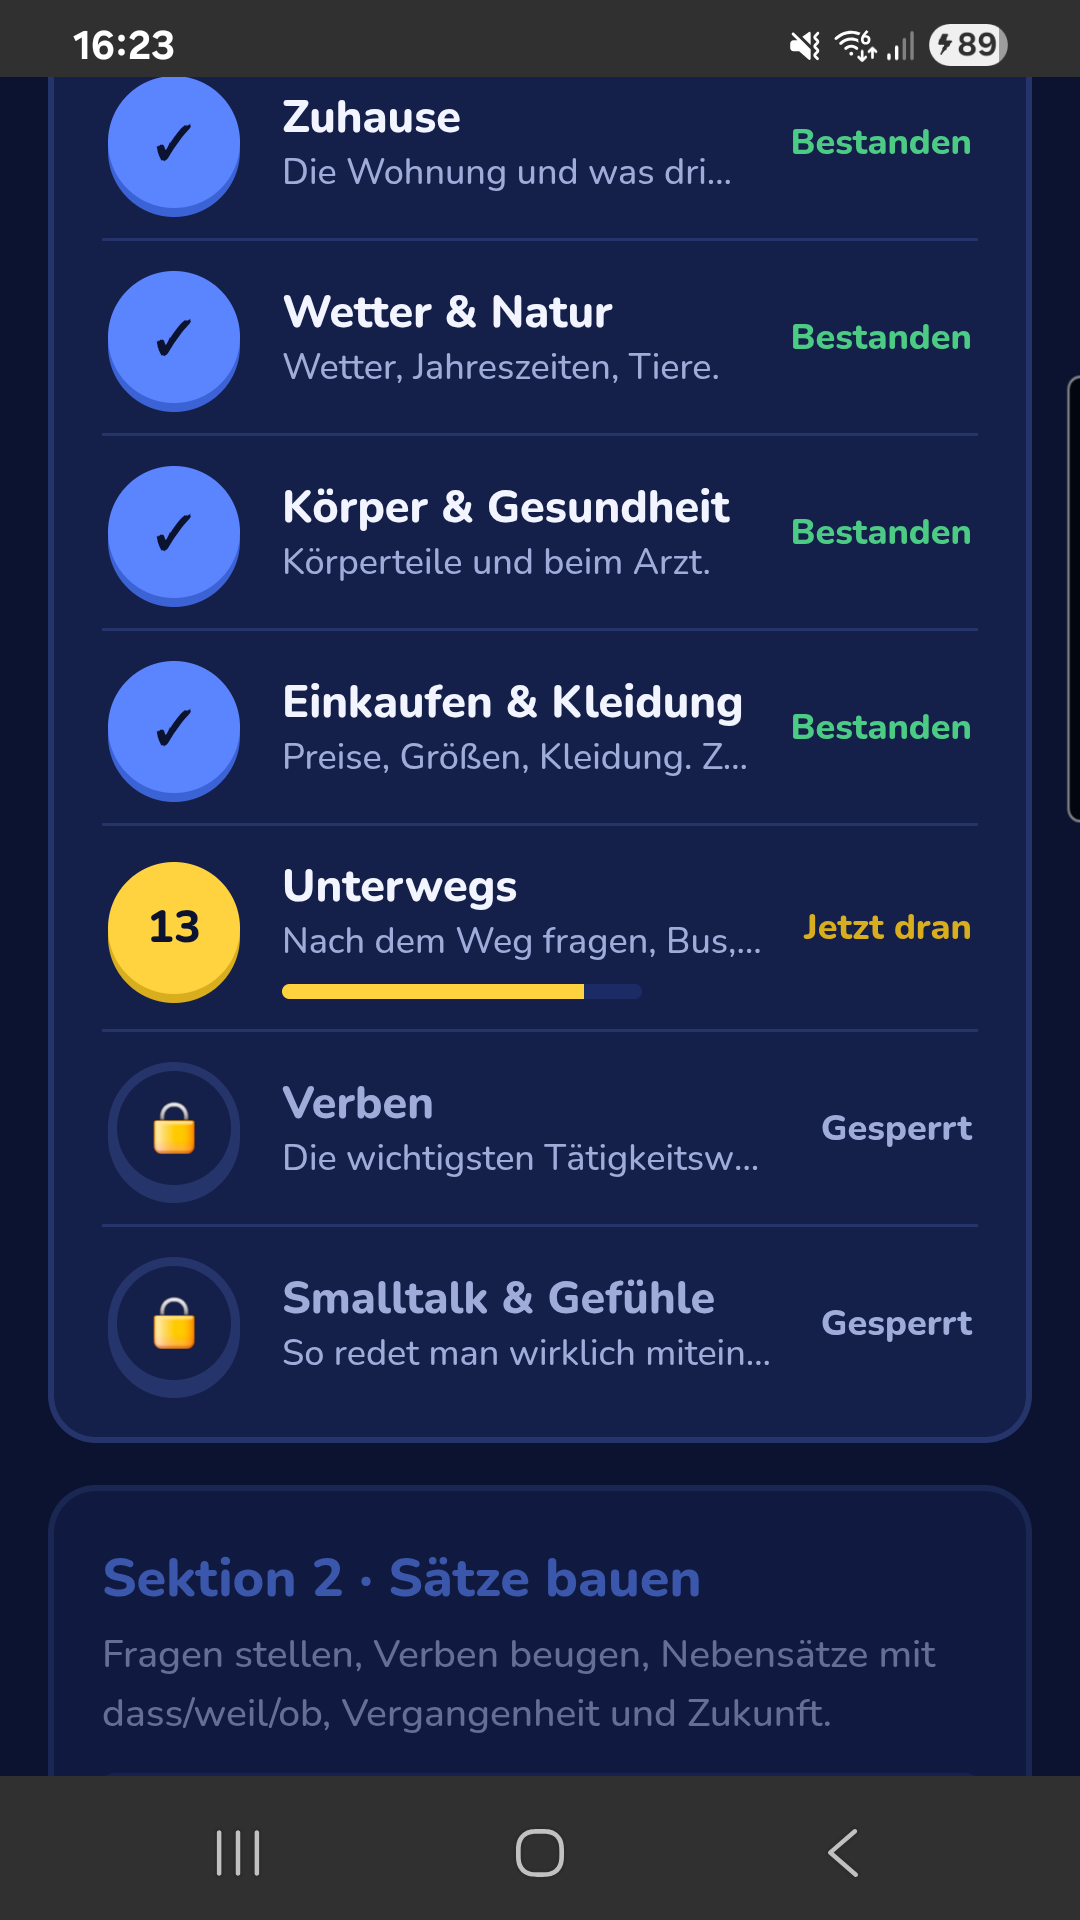
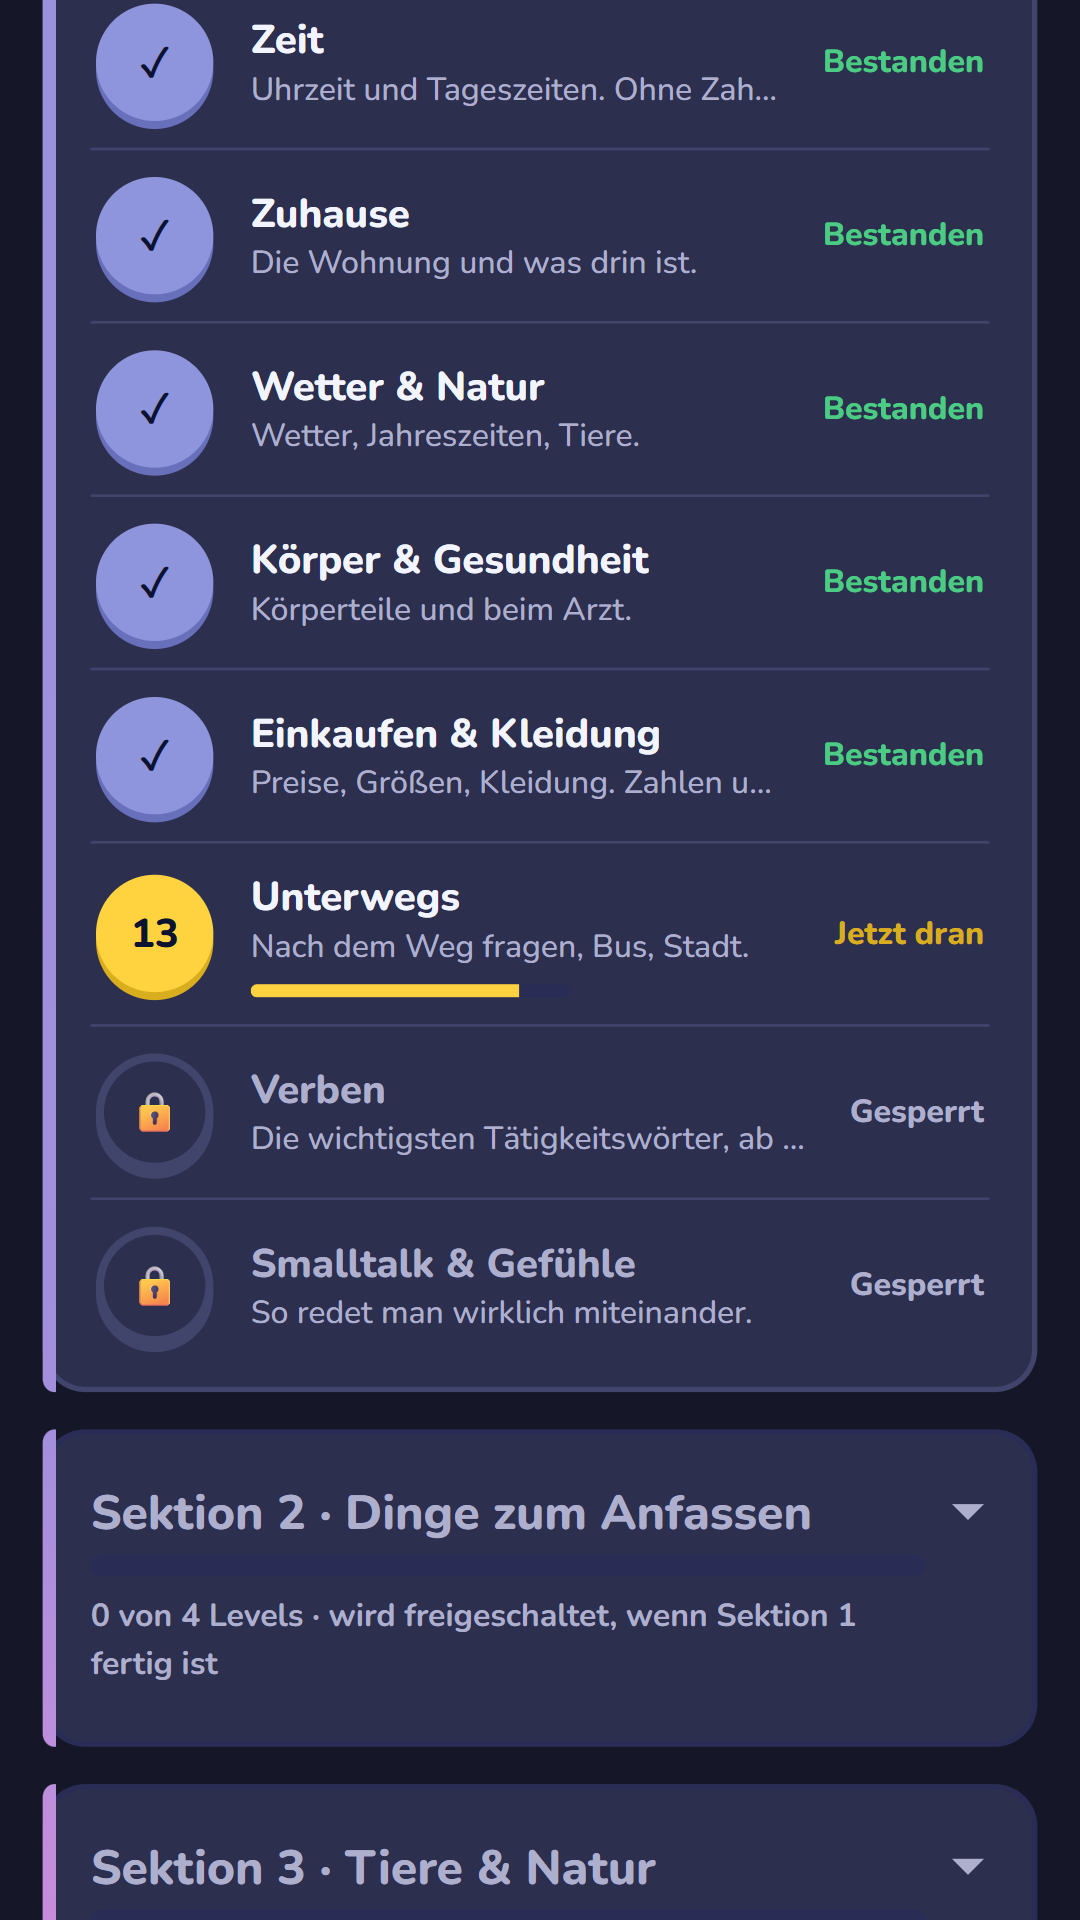
Neue Store-Bilder: acht statt elf, im aktuellen Aussehen
Die elf Bilder vom 19.09.2026 zeigten noch "Sektion 2 - Saetze bauen",
keinen Weitermachen-Knopf, keine Sektionsfarben und keinen Reiter
Wiederholen. Ajdin am 01.10.2026: neu machen, die alten loeschen.

Die neuen entstehen in einem kopflosen Chrome am PC mit dem
Vorfuehr-Lernstand aus testdaten/, auf heute verschoben. Das Handy und
sein echter Lernstand bleiben unberuehrt. 405 x 720 Punkte mal 8/3 ergibt
genau 1080 x 1920, PNG ohne Alphakanal. Werkzeug und Anleitung in
store/bilder_machen/.

diff --git a/store/bilder_machen/antworte.js b/store/bilder_machen/antworte.js
@@ -1,0 +1,12 @@
+window.__antworte = async (richtig, feld='eBody', X=()=>Ex) => {
+  const x = X(); const q = (x.qs||x.queue)[x.i]; const body = document.getElementById(feld);
+  const warte = ms => new Promise(r=>setTimeout(r,ms));
+  const w0 = body.querySelector('.weiterbox .btn'); if(w0){ w0.click(); await warte(400); return 'weiter'; }
+  if(q.typ==='intro'){ body.querySelector('#xNext').click(); await warte(300); return 'intro'; }
+  if(q.typ==='speak' || (q.typ==='listen' && richtig===null)){ const s=body.querySelector('#xSkip'); s.click(); await warte(300); return 'skip'; }
+  if(q.typ==='gap'){ const inp=body.querySelector('#xIn'); inp.value = richtig ? q.s.answer.split(' / ')[0] : 'zzzz'; body.querySelector('#xCheck').click(); }
+  else if(q.typ==='type'){ const inp=body.querySelector('#xIn'); inp.value = richtig ? q.w.bs.split(' / ')[0] : 'zzzz'; body.querySelector('#xCheck').click(); }
+  else { const soll = q.typ==='gram' ? q.g.richtig : (q.typ==='mcrev' ? q.w.de : q.w.bs);
+    const opts=[...body.querySelectorAll('.opt')]; const b = richtig ? opts.find(o=>o.textContent===soll) : opts.find(o=>o.textContent!==soll); if(!b) return 'kein knopf '+soll; b.click(); }
+  await warte(1200); const w = body.querySelector('.weiterbox .btn'); if(w) w.click(); await warte(400); return q.typ; };
+return 'ok';

diff --git a/store/bilder_machen/pc.py b/store/bilder_machen/pc.py
@@ -1,0 +1,59 @@
+# -*- coding: utf-8 -*-
+"""Steuert die App in einem kopflosen Chrome am PC - fuer die Store-Bilder.
+
+    pc.py js '<Rumpf mit return>'     laeuft als async Funktion in der Seite
+    pc.py bild <datei.png>            Bildschirmfoto des sichtbaren Teils
+    pc.py nav <adresse>               Seite laden
+
+Die Bildschirmgroesse kommt aus BREITE, HOEHE und DSF (Punkte je CSS-Punkt).
+Sie wird bei jedem Aufruf neu gesetzt: Chrome vergisst sie, sobald die
+Verbindung zu ist. 405 x 720 mal 8/3 ergibt genau 1080 x 1920.
+"""
+import asyncio, base64, json, os, sys, urllib.request
+
+TOR = "9444"
+ZEIT = 60
+
+
+async def main():
+    import websockets
+    was, arg = sys.argv[1], sys.argv[2]
+    seiten = json.load(urllib.request.urlopen("http://127.0.0.1:%s/json" % TOR, timeout=8))
+    ziel = [s for s in seiten if s.get("type") == "page"]
+    async with websockets.connect(ziel[0]["webSocketDebuggerUrl"], max_size=256 * 1024 * 1024) as ws:
+        n = [0]
+
+        async def ruf(methode, params):
+            n[0] += 1
+            await ws.send(json.dumps({"id": n[0], "method": methode, "params": params}))
+            while True:
+                a = json.loads(await ws.recv())
+                if a.get("id") == n[0]:
+                    return a
+
+        await ruf("Emulation.setDeviceMetricsOverride", {
+            "width": int(os.environ.get("BREITE", "405")),
+            "height": int(os.environ.get("HOEHE", "720")),
+            "deviceScaleFactor": float(os.environ.get("DSF", "2.6666666667")),
+            "mobile": True})
+        await ruf("Emulation.setTouchEmulationEnabled", {"enabled": True, "maxTouchPoints": 5})
+        if was == "js":
+            a = await asyncio.wait_for(ruf("Runtime.evaluate", {
+                "expression": "(async()=>{ %s })()" % arg,
+                "returnByValue": True, "awaitPromise": True}), ZEIT)
+            r = a.get("result", {})
+            if r.get("exceptionDetails"):
+                print(json.dumps(r["exceptionDetails"], ensure_ascii=False)[:1200]); return 1
+            w = r.get("result", {}).get("value")
+            print(w if isinstance(w, str) else json.dumps(w, ensure_ascii=False, indent=1))
+        elif was == "bild":
+            a = await asyncio.wait_for(ruf("Page.captureScreenshot", {"format": "png"}), ZEIT)
+            open(arg, "wb").write(base64.b64decode(a["result"]["data"]))
+            print("gespeichert", arg)
+        elif was == "nav":
+            await ruf("Page.navigate", {"url": arg})
+            print("geladen", arg)
+    return 0
+
+
+sys.exit(asyncio.run(main()))

diff --git a/store/bilder_machen/stand.py b/store/bilder_machen/stand.py
@@ -1,0 +1,23 @@
+# -*- coding: utf-8 -*-
+"""Vorfuehr-Lernstand fuer die Store-Bilder, auf heute verschoben.
+
+Grundlage ist testdaten/zmaj-screenshots.json. Die Lerntage dort enden am
+19.09.2026 - ohne Verschieben stuende auf dem ersten Bild "Deine Lernserie
+ist leider gerissen". Bewertung und Einstufung gelten als erledigt, damit
+keine Karte ueber dem Bild liegt.
+"""
+import datetime, json, os
+
+HIER = os.path.dirname(os.path.abspath(__file__))
+QUELLE = os.path.join(HIER, "..", "..", "testdaten", "zmaj-screenshots.json")
+ZIEL = os.path.join(HIER, "_stand.json")
+
+s = json.load(open(QUELLE, encoding="utf-8"))["stand"]
+heute = datetime.date.today()
+s["tage"] = sorted((heute - datetime.timedelta(days=i)).isoformat() for i in range(47))
+s["rekord"] = 47
+s["frost"] = []
+s["bewertung"] = {"gezeigt": [], "nein": True, "bewertet": False}
+s["einstufung"] = {"tag": s["tage"][0], "wahl": "neu", "bis": ""}
+json.dump(s, open(ZIEL, "w", encoding="utf-8"), ensure_ascii=False)
+print("Lernstand:", len(s["tage"]), "Tage bis", s["tage"][-1])

diff --git a/NACH_DER_VEROEFFENTLICHUNG.md b/NACH_DER_VEROEFFENTLICHUNG.md
@@ -21,7 +21,7 @@ wieder, wo überall „geschlossener Test" steht.
 | **5.4**, Tabelle | „Antrag auf Produktionszugriff — frühestens 07.10.2026" · „Freigabe der ersten Produktionsversion — offen" | beide mit Datum |
 | **5.7**, letzter Satz | „Dieser Abschnitt wird nach dem 07.10.2026 abgeschlossen." | streichen, Auswertung schreiben |
 | **5.6**, Termintabelle | „Oktober 2026 — Freigabe erwartet" | tatsächliches Datum |
-| **6.2** | Die Screenshots zeigen unten „Zmaj v0.9" | neue Bilder aus der veröffentlichten Fassung |
+| **6.2** | Die Screenshots zeigen unten „Zmaj v0.9" | erledigt am 01.10.2026: acht neue Bilder mit „v1.0“ in `store/screenshots` |
 
 ---
 
@@ -94,11 +94,11 @@ haben — auch wenn die Antwort „bleibt wie es ist" lautet.
   weil jede Einreichung die Prüffrist zurückgesetzt hätte. Der neue Text
   liegt fertig in acht Sprachen in `STORE_TEXTE.md` unter „Versionshinweise –
   Entwurf vom 01.10.2026“.
-- **Store-Screenshots neu machen.** Die elf Bilder in `store/screenshots`
-  sind vom 19.09.2026 und zeigen das alte Aussehen: „Sektion 2 · Sätze
-  bauen“, ohne Weitermachen-Knopf, ohne Sektionsfarben, ohne Reiter
-  „Wiederholen“. Aufgefallen am 01.10.2026. Neu aufnehmen, wenn die Fassung
-  nach dem Test auf dem Handy läuft.
+- **Store-Screenshots in der Play Console tauschen.** Die acht neuen Bilder
+  liegen seit dem 01.10.2026 in `store/screenshots` (1080 × 1920, mit
+  Weitermachen-Knopf, Sektionsfarben und Reiter „Wiederholen“). In der
+  Console stehen noch die elf alten vom 19.09. Neu erzeugen lassen sie sich
+  mit `store/bilder_machen/` – Anleitung im LIESMICH dort.
 - **Zwei verirrte CR-Zeichen in `sprachen.py`**, bei Zeile 212 zwischen
   `laden.rot` und `laden.gruen_sub`. Sie richten keinen Schaden an, sorgen
   aber dafür, dass die Datei je nach Werkzeug 3.476 oder 3.478 Zeilen hat.

diff --git a/STORE_TEXTE.md b/STORE_TEXTE.md
@@ -1094,8 +1094,9 @@ bosnien,bosnie,balkans,langue,vocabulaire,grammaire,serbe,croate,sarajevo,voyage
 
 # Screenshots
 
-Google will mindestens zwei, zeigt aber bis zu acht. Nimm sechs – mehr
-schaut sich niemand an, weniger wirkt dünn.
+Google will mindestens zwei, zeigt aber bis zu acht. Fertig liegen acht in
+`store/screenshots` (Stand 01.10.2026), erzeugt mit `store/bilder_machen/`.
+Die Tabelle unten war der ursprüngliche Plan für sechs.
 
 **Größe:** 1080 × 1920 px (Hochformat) reicht für alle Telefonformate.
 Google verlangt: mindestens 320 px Kantenlänge, höchstens 3840 px,
